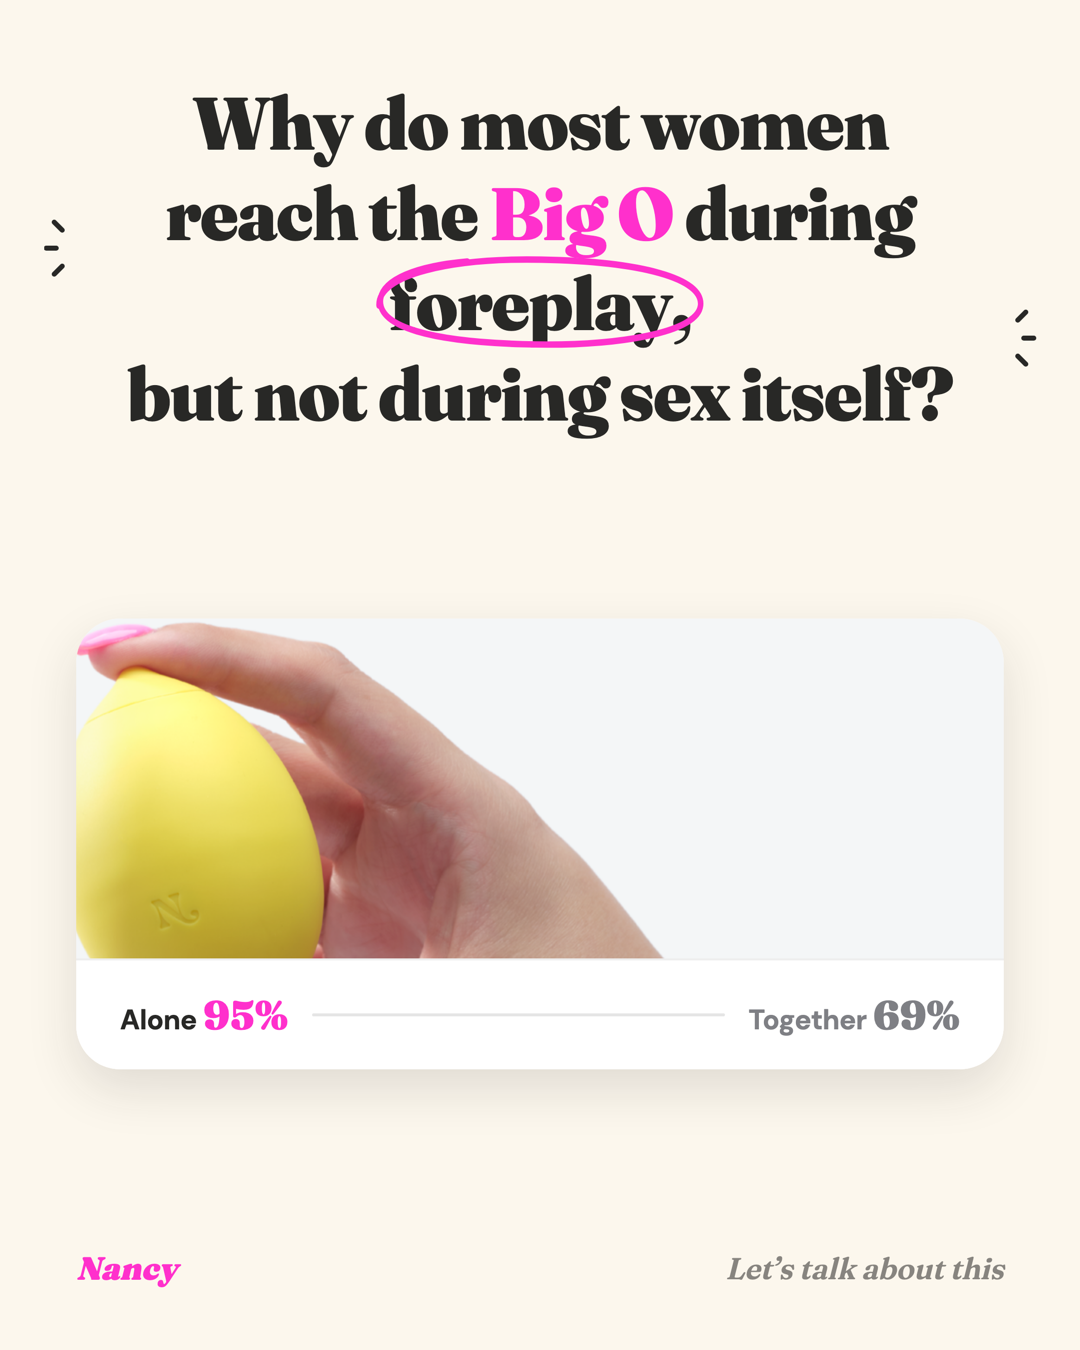
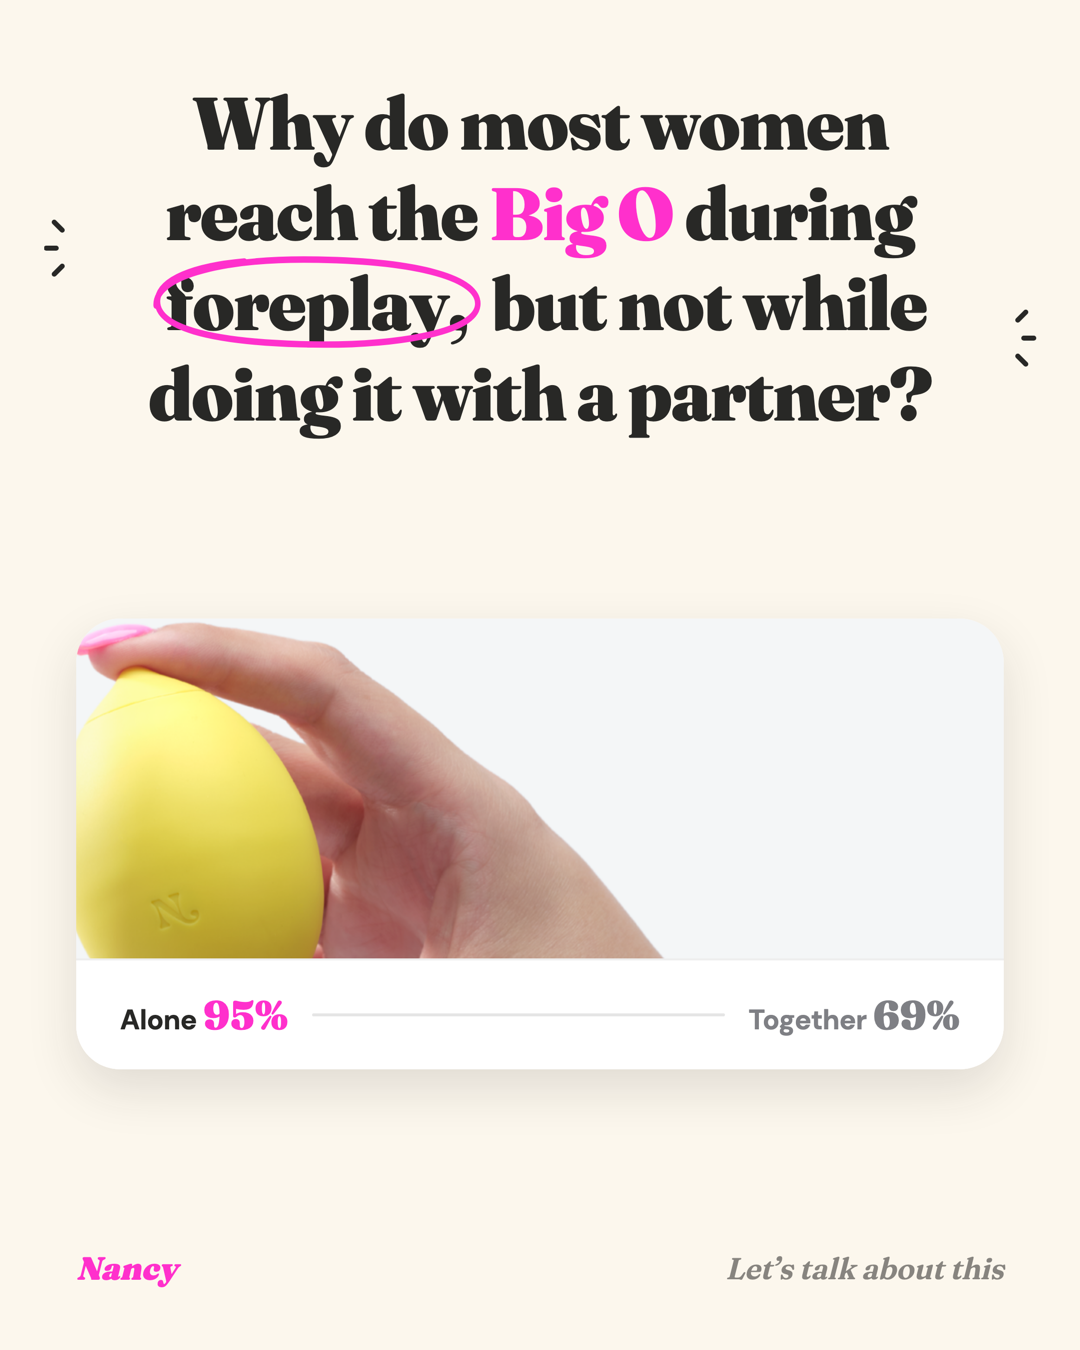
Post 3: moderation-safe headline wording

Changed region(s): [[0.1222, 0.1867, 0.8861, 0.3422]]

diff --git a/_source/post3-bigo.html b/_source/post3-bigo.html
@@ -44,14 +44,14 @@
 
   <div class="head">
     Why do most women<br>
-    reach the <span style="color:var(--pink)">Big O</span> during
+    reach the <span style="color:var(--pink)">Big O</span> during<br>
     <span class="circ">foreplay,
       <svg viewBox="0 0 460 120" preserveAspectRatio="none">
         <path d="M26,62 C24,28 118,10 232,12 C358,14 438,32 434,62 C430,92 326,107 208,104 C96,101 22,86 28,54 C32,34 72,19 138,14"
               stroke="#FF30CC" stroke-width="7" fill="none" stroke-linecap="round"/>
       </svg>
-    </span><br>
-    but not during sex itself?
+    </span> but not while<br>
+    doing it with a partner?
   </div>
 
   <div class="mid">

diff --git a/_source/post3-bigo.py b/_source/post3-bigo.py
@@ -49,14 +49,14 @@ HTML = '''<!doctype html>
 
   <div class="head">
     Why do most women<br>
-    reach the <span style="color:var(--pink)">Big O</span> during
+    reach the <span style="color:var(--pink)">Big O</span> during<br>
     <span class="circ">foreplay,
       <svg viewBox="0 0 460 120" preserveAspectRatio="none">
         <path d="M26,62 C24,28 118,10 232,12 C358,14 438,32 434,62 C430,92 326,107 208,104 C96,101 22,86 28,54 C32,34 72,19 138,14"
               stroke="#FF30CC" stroke-width="7" fill="none" stroke-linecap="round"/>
       </svg>
-    </span><br>
-    but not during sex itself?
+    </span> but not while<br>
+    doing it with a partner?
   </div>
 
   <div class="mid">
